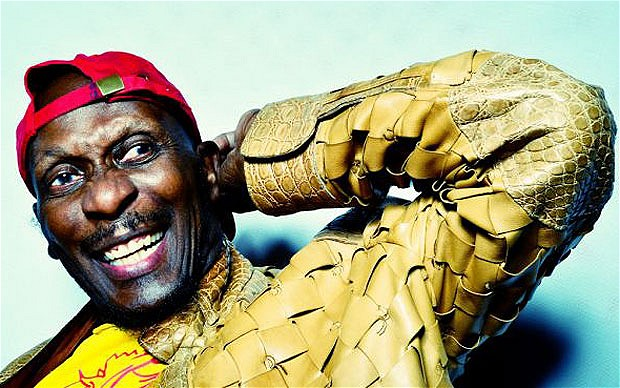
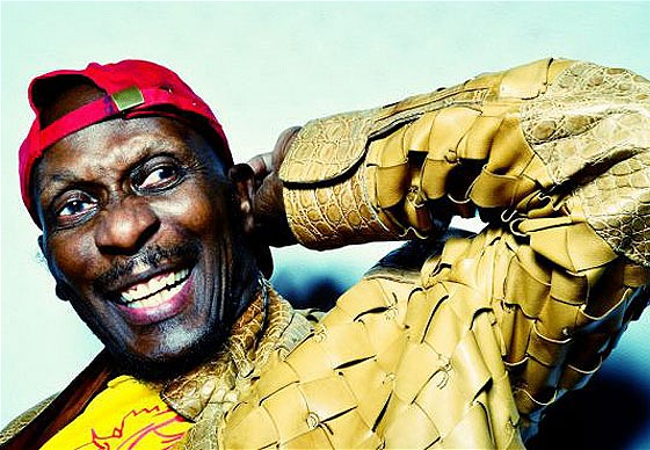
bandpage images now cropped

diff --git a/templates/band.html b/templates/band.html
@@ -7,9 +7,9 @@
 
 
 <div class='row'>
-  <div class='col-md-6'>
-    <img src="/img/CGbobmarley.jpg" class="img-responsive">
-    <div class="col-md-6 bandpage-over-text">
+  <div class='col-md-6 bandpage-image-container'>
+    <img src="/img/BPbobmarley.jpg" class="img-responsive bandpage-image">
+    <div class="bandpage-over-text">
       <p class="bandpage-paragraphs"><span class="bandpage-member-header">Bob Marley</span></br>Lorem ipsum dolor sit amet, consectetur adipisicing elit, sed do eiusmod
 tempor incididunt ut labore et dolore magna aliqua. Ut enim ad minim veniam,
 quis nostrud exercitation ullamco laboris nisi ut aliquip ex ea commodo
@@ -20,9 +20,37 @@ proident, sunt in culpa qui officia deserunt mollit anim id est laborum.
     </div>
   </div>
 
-  <div class='col-md-6'>
-    <img src="/img/CGjimmycliff.jpg" class="img-responsive">
-    <div class="col-md-6 bandpage-over-text">
+  <div class='col-md-6 bandpage-image-container'>
+    <img src="/img/BPdamianmarley.jpg" class="img-responsive bandpage-image">
+    <div class="bandpage-over-text">
+      <p class="bandpage-paragraphs"><span class="bandpage-member-header">Jimmy Cliff</span></br>Lorem ipsum dolor sit amet, consectetur adipisicing elit, sed do eiusmod
+tempor incididunt ut labore et dolore magna aliqua. Ut enim ad minim veniam,
+quis nostrud exercitation ullamco laboris nisi ut aliquip ex ea commodo
+consequat. Duis aute irure dolor in reprehenderit in voluptate velit esse
+cillum dolore eu fugiat nulla pariatur. Excepteur sint occaecat cupidatat non
+proident, sunt in culpa qui officia deserunt mollit anim id est laborum.
+      </p>
+    </div>
+  </div>
+</div>
+
+<div class='row'>
+  <div class='col-md-6 bandpage-image-container'>
+    <img src="/img/BPjimmycliff.jpg" class="img-responsive bandpage-image">
+    <div class="bandpage-over-text">
+      <p class="bandpage-paragraphs"><span class="bandpage-member-header">Bob Marley</span></br>Lorem ipsum dolor sit amet, consectetur adipisicing elit, sed do eiusmod
+tempor incididunt ut labore et dolore magna aliqua. Ut enim ad minim veniam,
+quis nostrud exercitation ullamco laboris nisi ut aliquip ex ea commodo
+consequat. Duis aute irure dolor in reprehenderit in voluptate velit esse
+cillum dolore eu fugiat nulla pariatur. Excepteur sint occaecat cupidatat non
+proident, sunt in culpa qui officia deserunt mollit anim id est laborum.
+      </p>
+    </div>
+  </div>
+
+  <div class='col-md-6 bandpage-image-container'>
+    <img src="/img/BPmanuchao.jpg" class="img-responsive bandpage-image">
+    <div class="bandpage-over-text">  
       <p class="bandpage-paragraphs"><span class="bandpage-member-header">Jimmy Cliff</span></br>Lorem ipsum dolor sit amet, consectetur adipisicing elit, sed do eiusmod
 tempor incididunt ut labore et dolore magna aliqua. Ut enim ad minim veniam,
 quis nostrud exercitation ullamco laboris nisi ut aliquip ex ea commodo

diff --git a/css/style.css b/css/style.css
@@ -84,6 +84,11 @@ div h1 {
 	display: none;
 }
 
+img.img-responsive {
+	margin-left: auto;
+	margin-right: auto;
+}
+
 /*==================================================
 =            Bootstrap 3 Media Queries             =
 ==================================================*/
@@ -101,13 +106,13 @@ div h1 {
 
 .bandpage-over-text{
 	position: absolute;
-	overflow: hidden;
-	left: 0;
+	/*overflow: hidden;*/
+	/*left: 10px;*/
 	top: 0;
 	opacity: 0;
-	width: inherit;
+	width: 100%;
 	/*height: 380px;*/
-	color: red;
+	/*color: red;*/
 	/*padding: 10px;*/
 	border: 2px solid red;
 }
@@ -117,6 +122,8 @@ div h1 {
 	opacity: 1;
 	color: red;
 }
+
+
 
 span.bandpage-member-header{
 	font-size: 30px;
